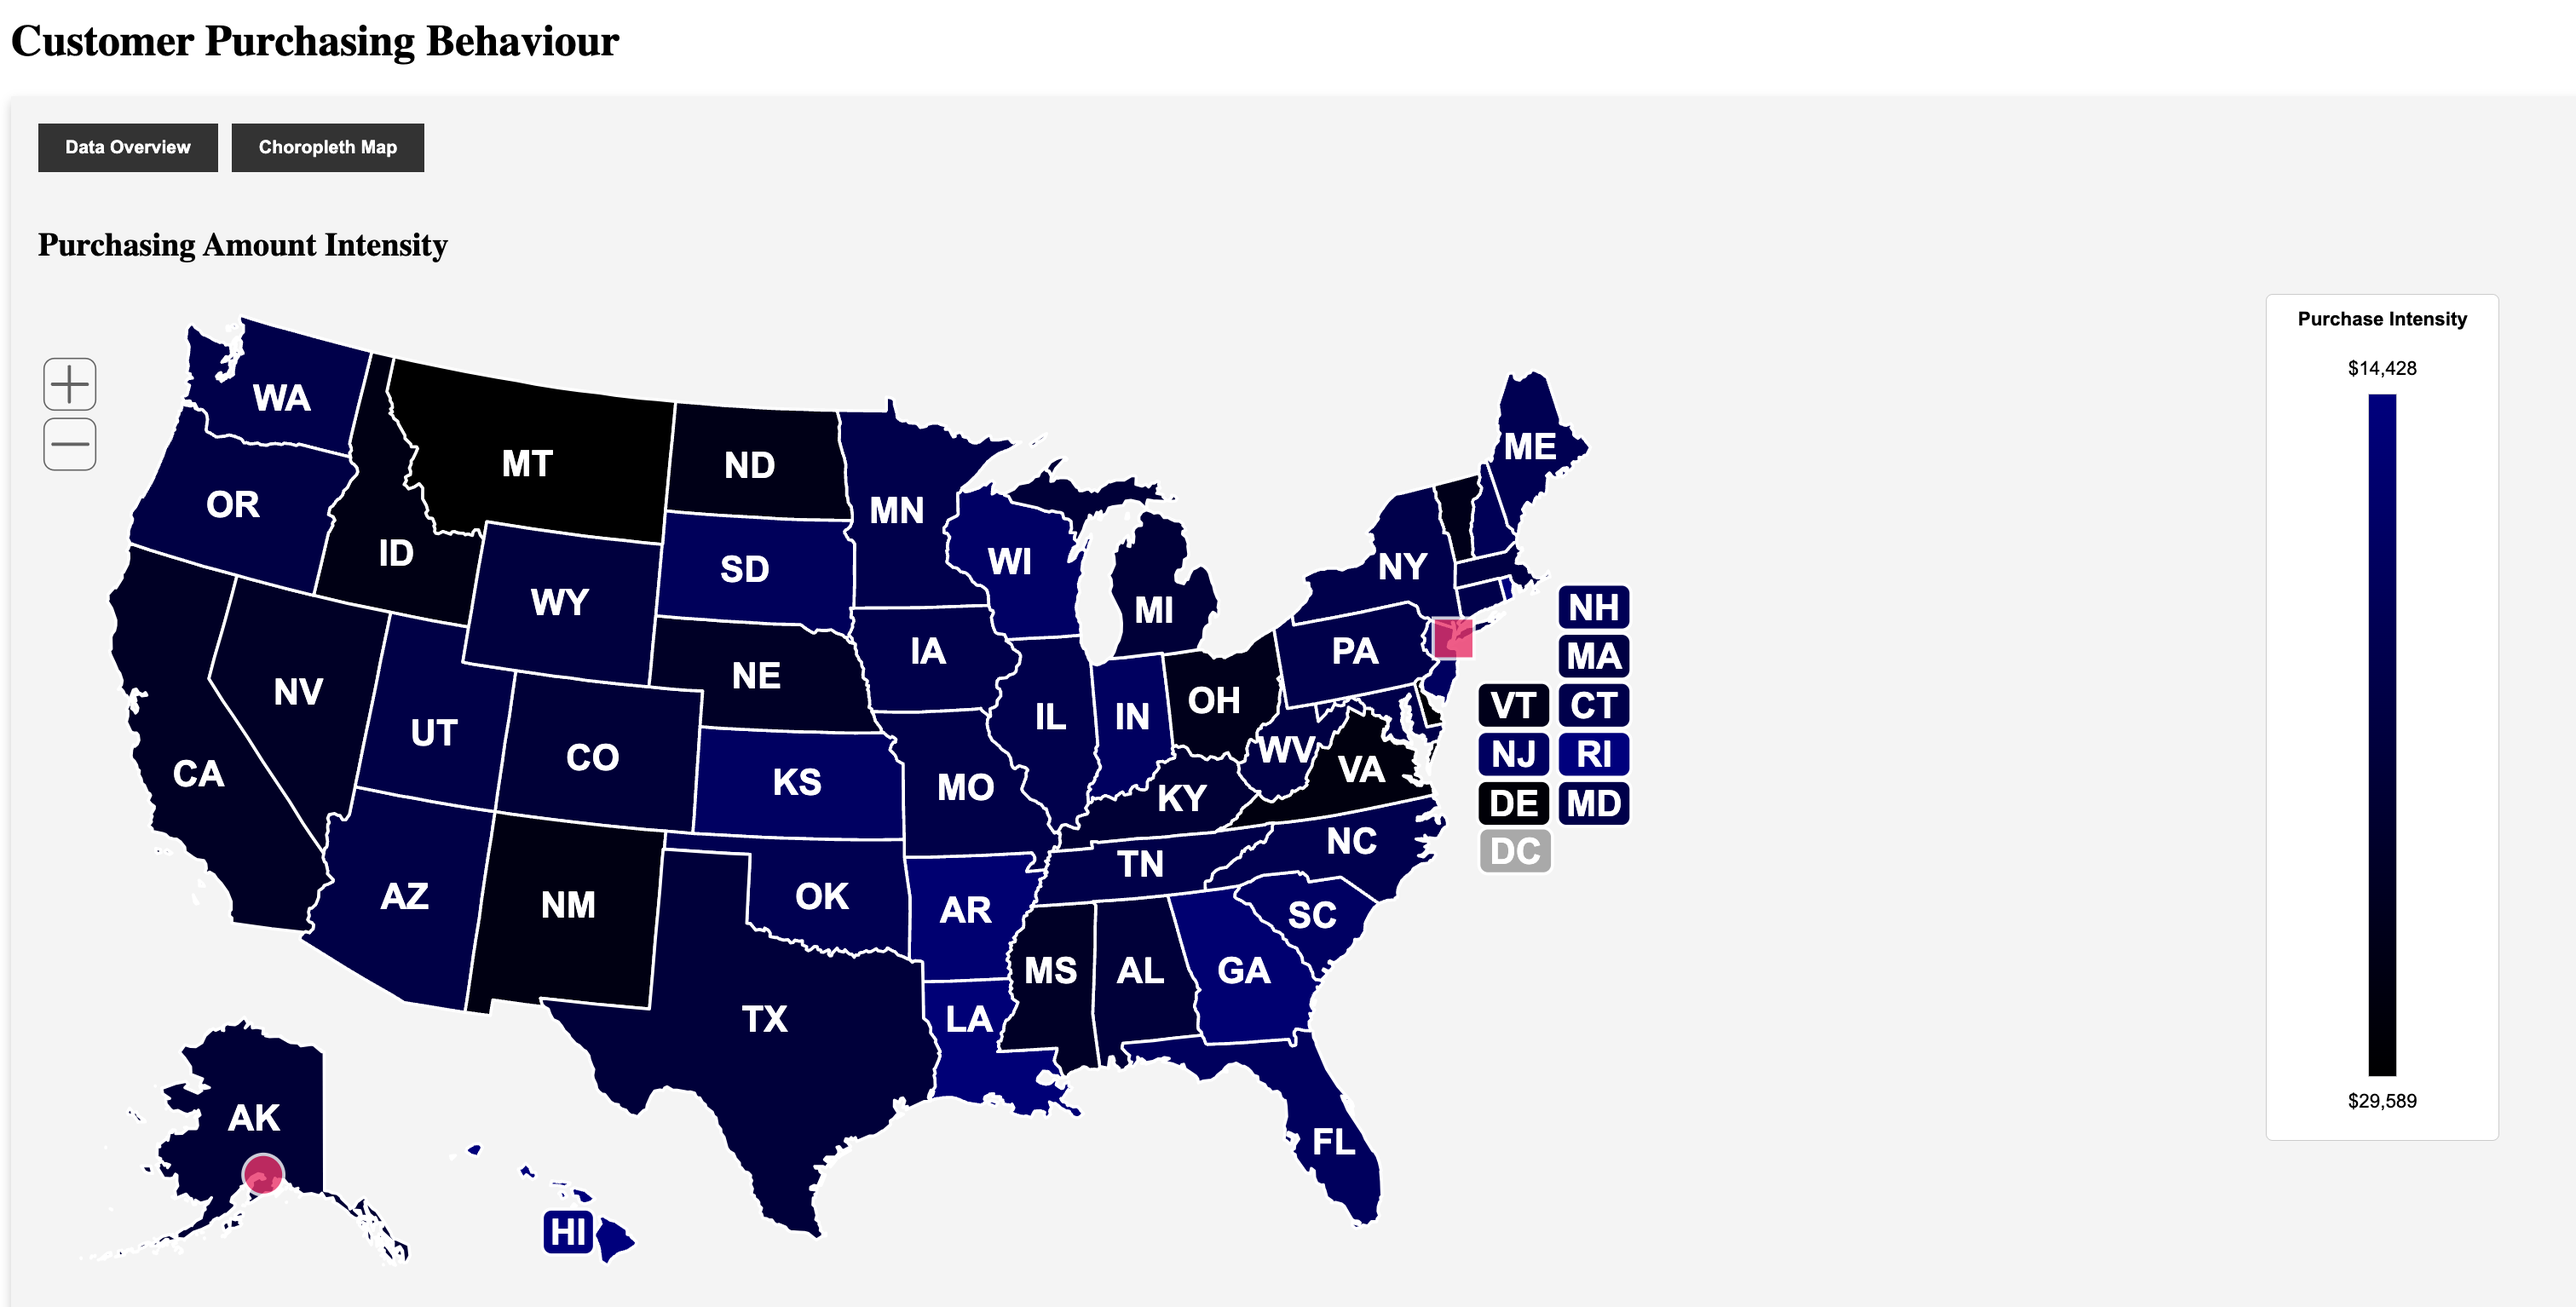
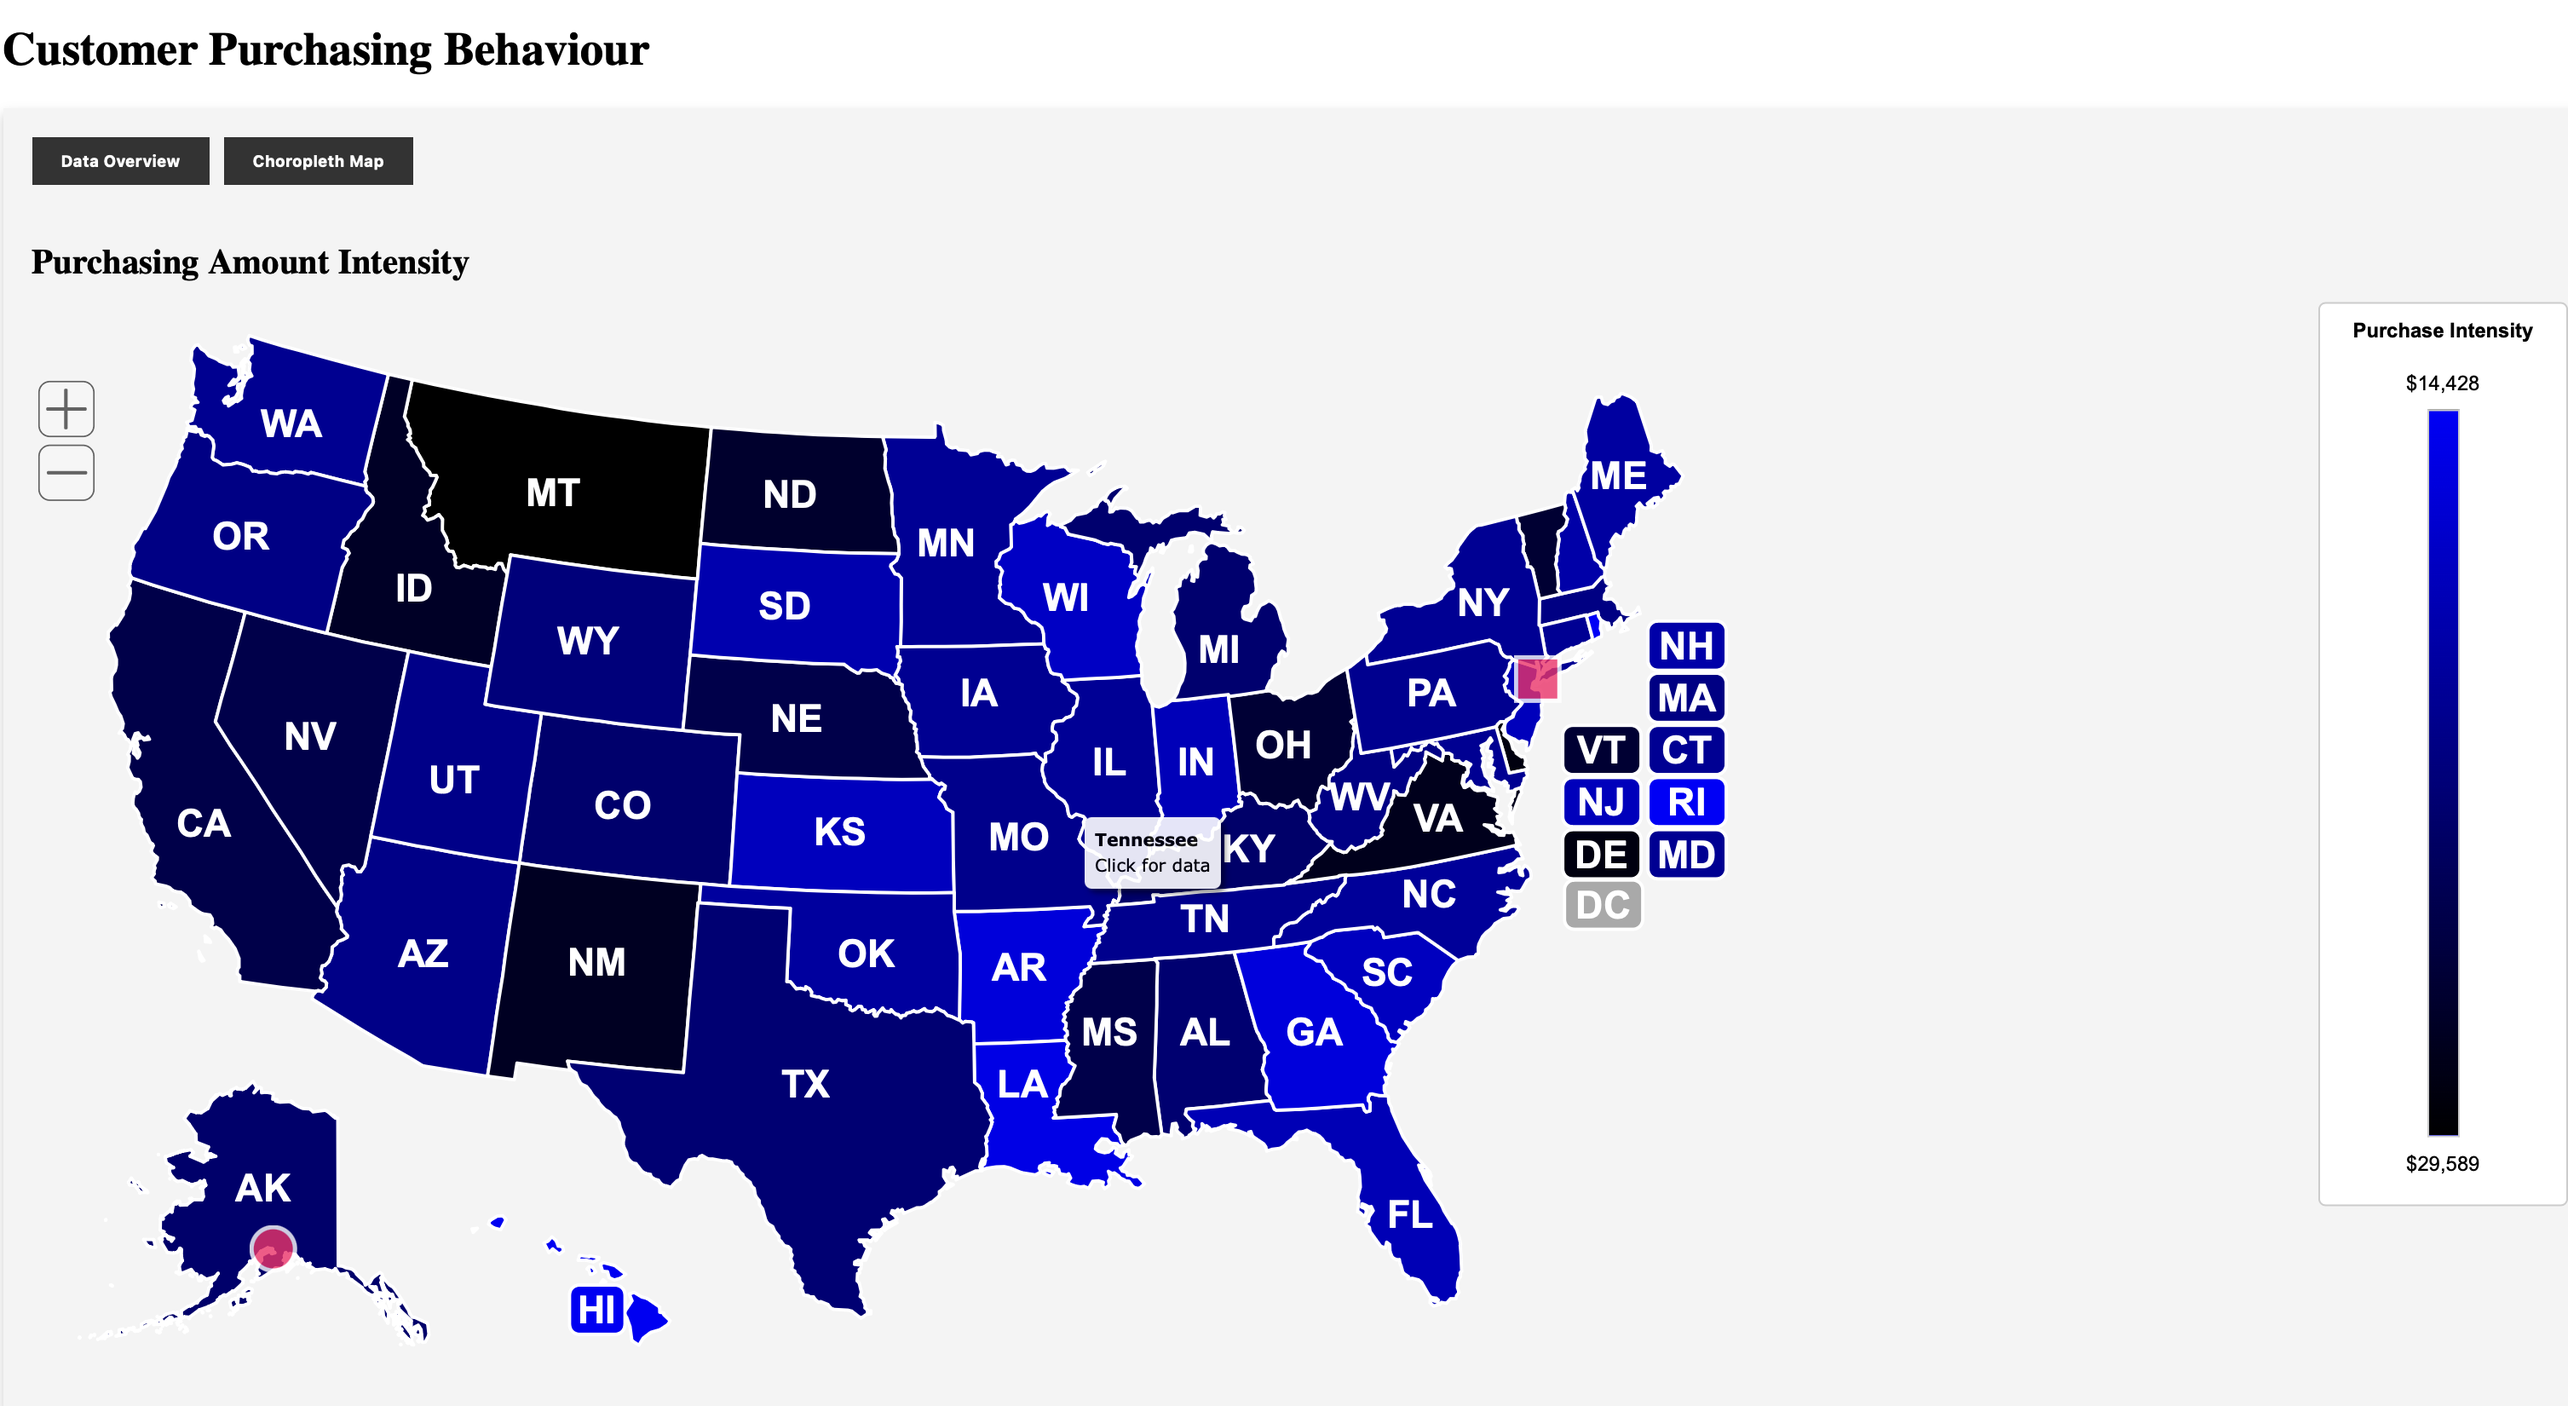
adopted min max scaler for better visualization

diff --git a/functions/functions.js b/functions/functions.js
@@ -5,7 +5,7 @@ let chosenState = null;
 
 function viewSankeyChart(bool) {
   const original = document.querySelectorAll(".chart-container-3d");
-  original.forEach((section) => {
+  original.forEach((section) => { 
     if (bool) section.classList.add("hidden");
     else section.classList.remove("hidden");
   });
@@ -30,15 +30,15 @@ function showContent(sectionId) {
   document.getElementById(sectionId).classList.remove("hidden");
 }
 
-function getColorForAmount(amount, maxAmount) {
-  const intensity = Math.floor((amount / maxAmount) * 255); // Scale intensity between 0 and 255
+function getColorForAmount(amount, minAmount, maxAmount) {
+  const intensity = Math.floor((amount - minAmount) / (maxAmount - minAmount) * 255); // Scale intensity between 0 and 255
   return `rgb(0, 0, ${255 - intensity})`; // Darker blue with higher amounts
 }
 
 // Update heatmap legend (color scale)
 function updateHeatmapLegend(minAmount, maxAmount) {
-  const minIntensity = Math.floor((minAmount / maxAmount) * 255);
-  const maxIntensity = Math.floor((maxAmount / maxAmount) * 255);
+  const minIntensity = Math.floor((minAmount - minAmount) / (maxAmount - minAmount) * 255);
+  const maxIntensity = Math.floor((maxAmount - minAmount) / (maxAmount - minAmount) * 255);
   const minColor = `rgb(0, 0, ${255 - minIntensity})`;
   const maxColor = `rgb(0, 0, ${255 - maxIntensity})`;
 
@@ -60,7 +60,7 @@ function updateMapWithHeatmap() {
   const minAmount = 14428;
   for (const key in statePurchaseAmounts) {
     const amount = statePurchaseAmounts[key];
-    const color = getColorForAmount(amount, maxAmount);
+    const color = getColorForAmount(amount, minAmount, maxAmount);
     if (simplemaps_usmap_mapdata.state_specific[key]) {
       // console.log("updating");
       simplemaps_usmap_mapdata.state_specific[key].color = color;

diff --git a/styles.css b/styles.css
@@ -76,7 +76,7 @@
   .heatmap-legend {
     position: absolute;
     padding-top: 10%;
-    margin-right: 3%;
+    padding-right: 2%;
     right: 0;
     top: 50%;
     transform: translateY(-50%);
